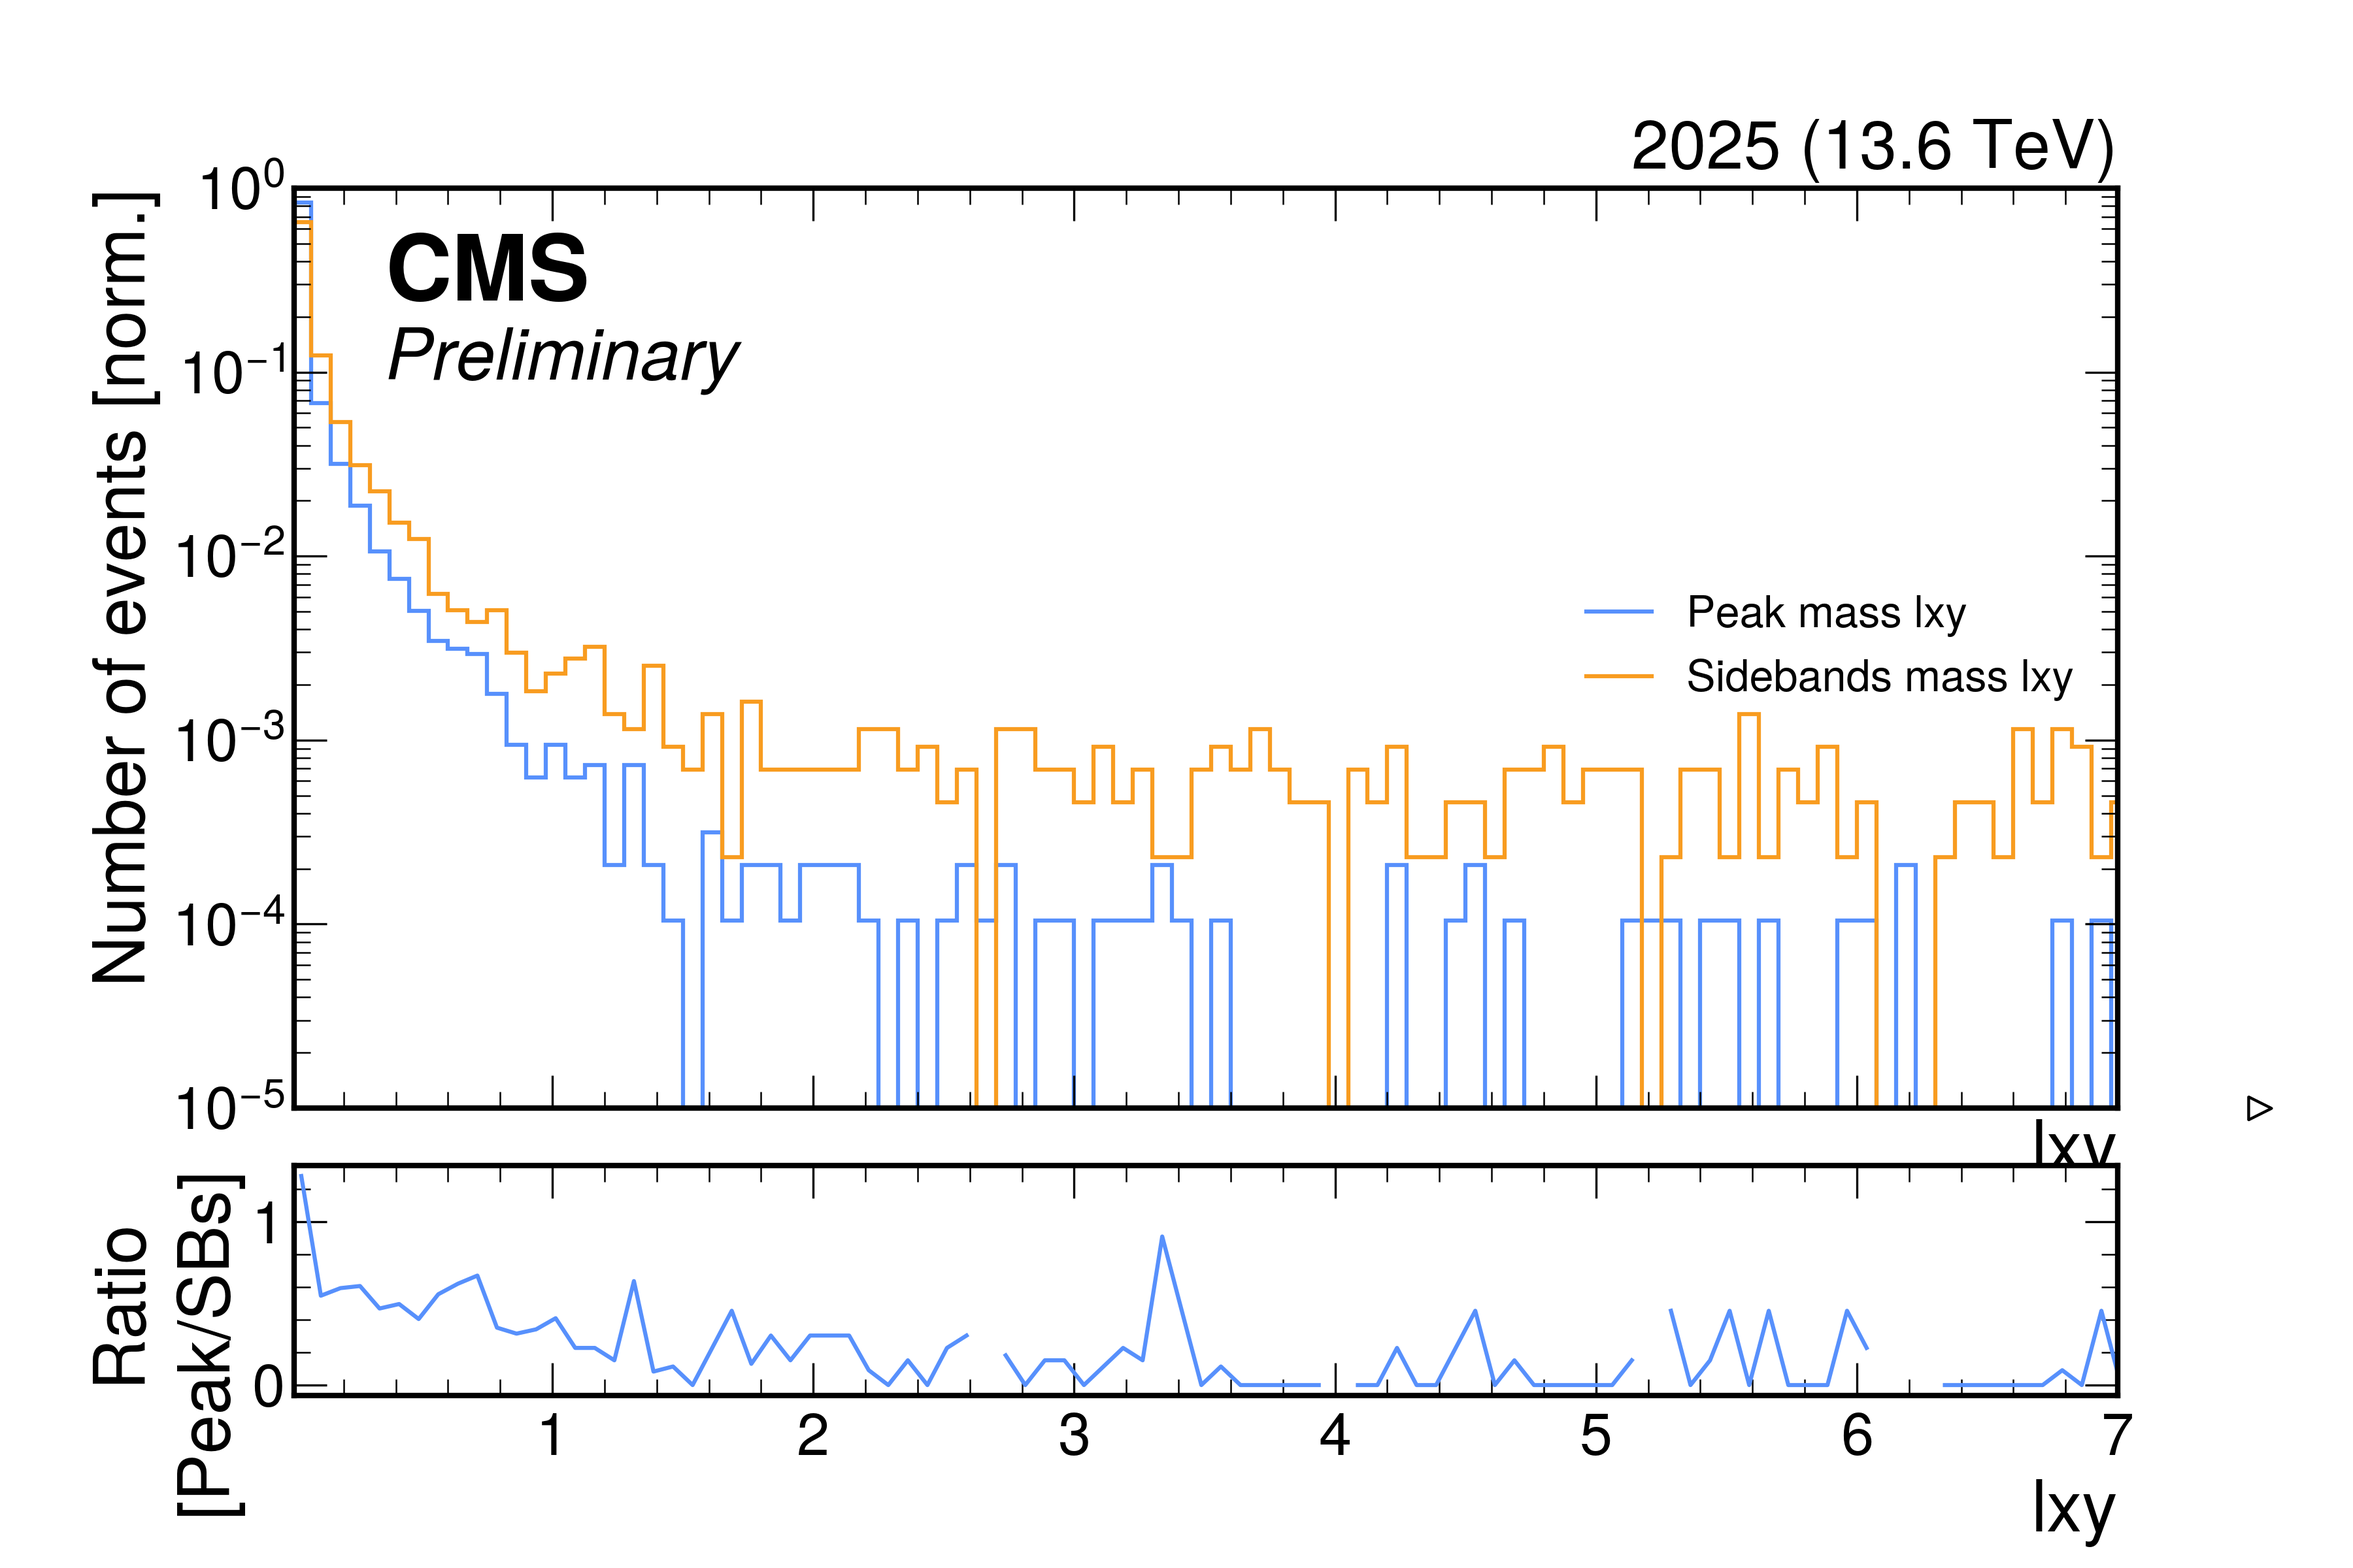
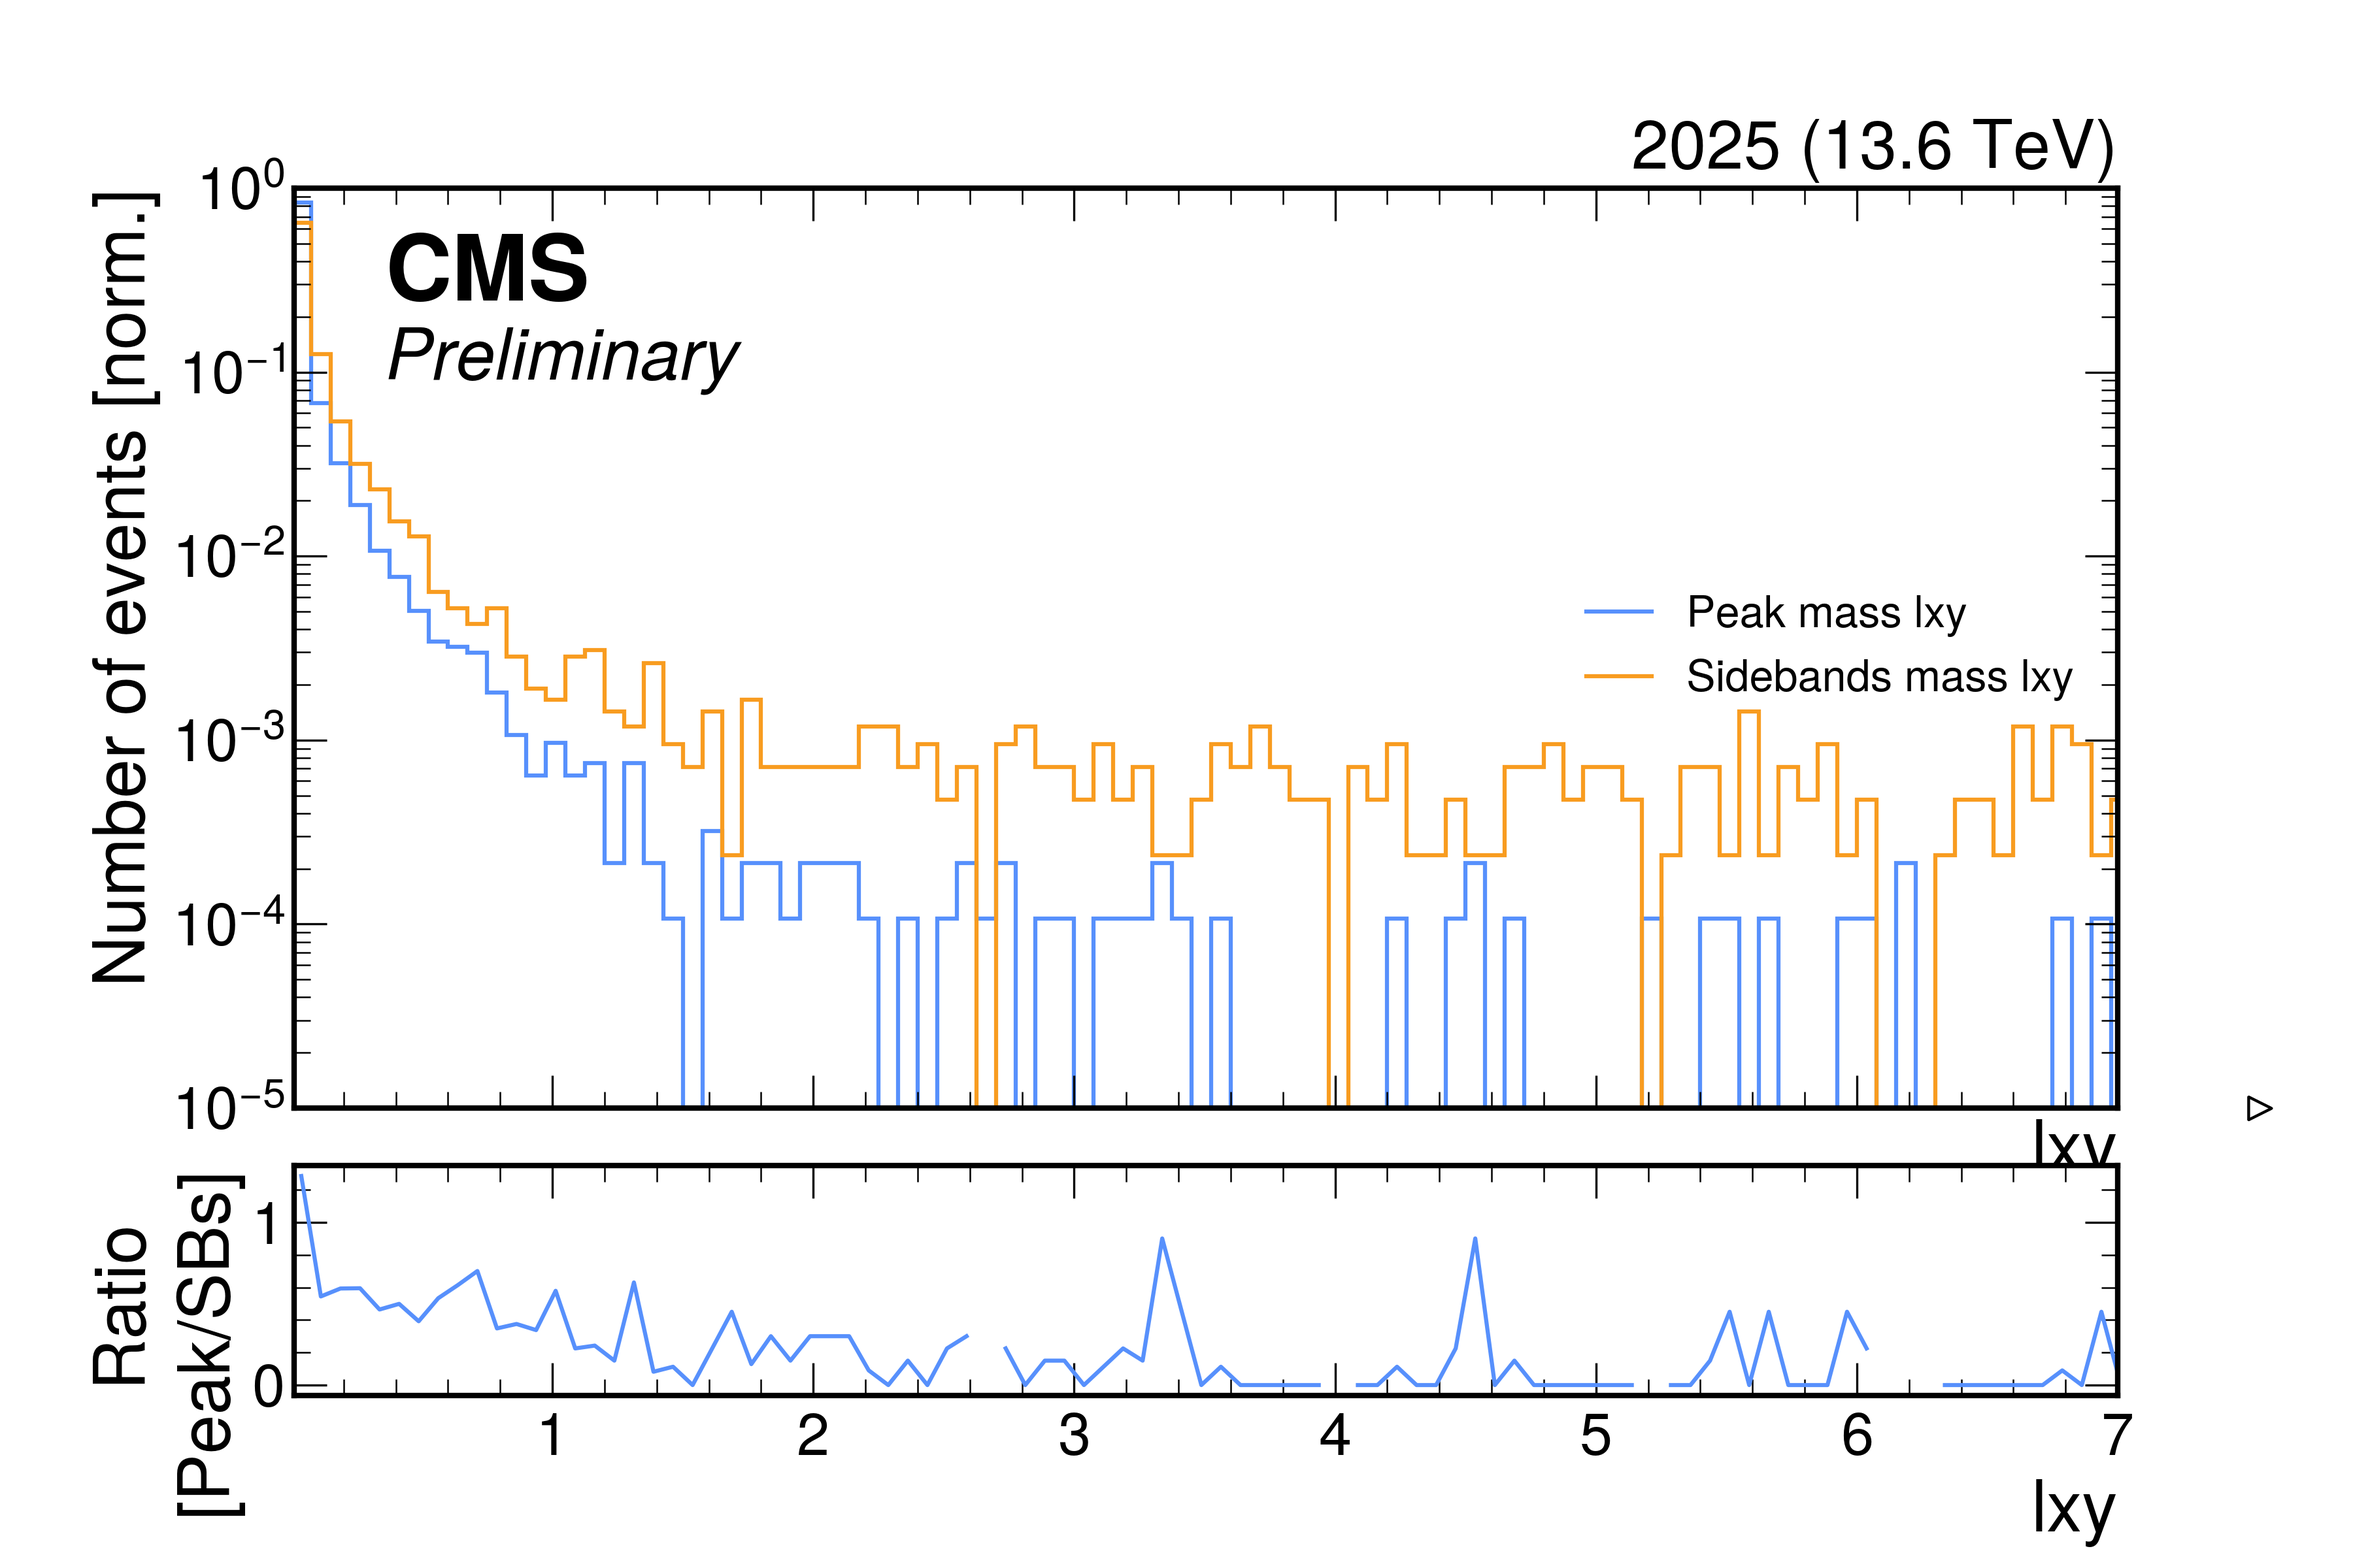
Add filter by chi2/ndof. Things might still be broken

diff --git a/make.py b/make.py
@@ -109,8 +109,10 @@ print("*Allow |eta| < 2.4*")
 mask_eta = (abs(events["ScoutingMuon%s_eta"%(MUON)]) < 2.4)
 print("*Allow at least 5 track hits")
 mask_track_hit_count = (events["ScoutingMuon%s_trk_hitPattern_hitCount"%(MUON)] >= 5)
-# combined_mask = mask_pt & mask_eta
-combined_mask = mask_eta & mask_track_hit_count
+print("*Allow chi2/ndof <= 3*")
+mask_per_muon_score = (events["ScoutingMuon%s_trk_chi2"%(MUON)]/events["ScoutingMuon%s_trk_ndof"%(MUON)] <= 3)
+
+combined_mask = mask_eta & mask_track_hit_count & mask_per_muon_score
 # print(combined_mask)
 muon_fields = [
 "_pt", "_eta", "_phi", "_charge",
@@ -222,8 +224,9 @@ for i in tqdm(range(len(events))):
         validVertices = validVertices[isGoodVertex] # Returns list of vertices that pass the score threshold.
     except IndexError: #Event 58005, any more?
         print("Event %d threw an Index Error; Size of scores != size of vertex list"%(i))
-        continue
         indexErrRejected +=1
+        continue
+        
     # print("Now valid vertices:", validVertices)
 
     ###
